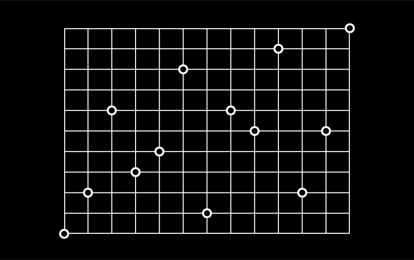
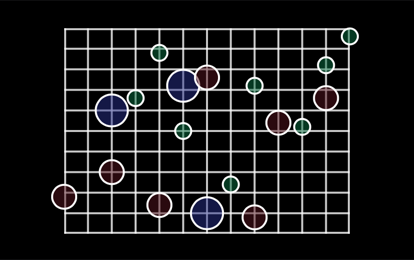
candlestick demo randomization

Changed region(s): [[0.1159, 0.0923, 0.8696, 0.9231]]

diff --git a/Sources/Graffeine-Demo/Main/Candlestick/CandlestickCell.swift b/Sources/Graffeine-Demo/Main/Candlestick/CandlestickCell.swift
@@ -5,41 +5,16 @@ class CandlestickCell: UITableViewCell, DataAppliable {
 
     typealias LayerID = CandlestickConfig.ID
 
-    struct TradingDay {
-        let open: Double
-        let close: Double
-        let peakHi: Double
-        let peakLo: Double
-    }
-
-    struct TradingDayLanes {
-        let hi: [Double]
-        let lo: [Double]
-        let peakHi: [Double]
-        let peakLo: [Double]
-        let colors: [UIColor]
-
-        static func `import`(_ input: [TradingDay]) -> TradingDayLanes {
-            return input.reduce(TradingDayLanes(hi: [], lo: [], peakHi: [], peakLo: [], colors: [])) {
-                let didCloseHi = ($1.close > $1.open)
-                let hi = (didCloseHi) ? $1.close : $1.open
-                let lo = (didCloseHi) ? $1.open : $1.close
-                let color: UIColor = (didCloseHi) ? .green : .red
-                return TradingDayLanes(hi: $0.hi + [hi],
-                                       lo: $0.lo + [lo],
-                                       peakHi: $0.peakHi + [$1.peakHi],
-                                       peakLo: $0.peakLo + [$1.peakLo],
-                                       colors: $0.colors + [color])
-            }
-        }
-    }
-    
     @IBOutlet weak var graffeineView: GraffeineView!
+
+    var selectedIndex: Int? = nil
+    var lanes: TradingDayLanes?
 
     override func awakeFromNib() {
         super.awakeFromNib()
-        graffeineView.onSelect = { _ in
-            self.dataSetIndex = (self.dataSetIndex + 1) % self.dataSets.count
+        graffeineView.onSelect = { selection in
+            self.selectedIndex = selection?.data.selectedIndex
+            self.lanes = (self.selectedIndex == nil) ? nil : self.lanes
             self.applyData(animated: true)
         }
     }
@@ -50,24 +25,9 @@ class CandlestickCell: UITableViewCell, DataAppliable {
             : nil
     }
 
-    let dataSets: [[TradingDay]] = [
-        [
-            TradingDay(open: 12.1, close: 30.8, peakHi: 35.0, peakLo: 10.1),
-            TradingDay(open: 30.8, close: 33.2, peakHi: 36.9, peakLo: 25.5),
-            TradingDay(open: 33.2, close: 31.5, peakHi: 31.6, peakLo: 31.0),
-            TradingDay(open: 31.5, close: 27.0, peakHi: 31.7, peakLo: 22.9),
-            TradingDay(open: 27.0, close: 36.4, peakHi: 40.1, peakLo: 26.5)
-        ],
-        [
-            TradingDay(open:   5.0, close:  2.0,  peakHi:  6.0, peakLo:  1.0),
-            TradingDay(open:   2.0, close:  7.0,  peakHi:  9.0, peakLo:  1.0),
-            TradingDay(open:   7.0, close:  9.0,  peakHi: 11.0, peakLo:  6.5),
-            TradingDay(open:   9.0, close:  13.0, peakHi: 14.0, peakLo:  8.5),
-            TradingDay(open:  13.0, close:  10.0, peakHi: 15.0, peakLo:  7.0)
-        ]
-    ]
-
-    var dataSetIndex: Int = 0
+    var dataSet: [TradingDay] {
+        return TradingDay.generateRandom(numberOfDays: 15, lowest:  32, highest:  64)
+    }
 
     func applyData() {
         applyData(animated: false)
@@ -75,27 +35,43 @@ class CandlestickCell: UITableViewCell, DataAppliable {
 
     func applyData(animated: Bool) {
 
-        let lanes = TradingDayLanes.import(dataSets[dataSetIndex])
+        if self.lanes == nil { self.lanes = TradingDayLanes.import(dataSet) }
+        let lanes = self.lanes!
 
         let nf = NumberFormatter()
         nf.numberStyle = .currency
 
-        let maxVal = lanes.peakHi.max()! + 4
-        let lowestVal = lanes.peakLo.min()!
-        let midVal = lowestVal + ((maxVal - lowestVal) / 2)
+        let maxVal = ceil(lanes.peakHi.max()!)
+        let lowestVal = floor(lanes.peakLo.min()!)
+        let range = maxVal - lowestVal
         let vLabels = [
-            "\(nf.string(from: NSNumber(value: maxVal * 1000))!)",
-            "\(nf.string(from: NSNumber(value: midVal * 1000))!)",
-            "\(nf.string(from: NSNumber(value: lowestVal * 1000))!)"
+            "\(nf.string(from: NSNumber(value: maxVal))!)",
+            "\(nf.string(from: NSNumber(value: lowestVal + (range * 0.9)))!)",
+            "\(nf.string(from: NSNumber(value: lowestVal + (range * 0.8)))!)",
+            "\(nf.string(from: NSNumber(value: lowestVal + (range * 0.7)))!)",
+            "\(nf.string(from: NSNumber(value: lowestVal + (range * 0.6)))!)",
+            "\(nf.string(from: NSNumber(value: lowestVal + (range * 0.5)))!)",
+            "\(nf.string(from: NSNumber(value: lowestVal + (range * 0.4)))!)",
+            "\(nf.string(from: NSNumber(value: lowestVal + (range * 0.3)))!)",
+            "\(nf.string(from: NSNumber(value: lowestVal + (range * 0.2)))!)",
+            "\(nf.string(from: NSNumber(value: lowestVal + (range * 0.1)))!)",
+            "\(nf.string(from: NSNumber(value: lowestVal))!)"
         ]
 
         let candleData = GraffeineData(valueMax: maxVal - lowestVal,
                                        valuesHi: lanes.hi.map { $0 - lowestVal },
-                                       valuesLo: lanes.lo.map { $0 - lowestVal })
+                                       valuesLo: lanes.lo.map { $0 - lowestVal },
+                                       labels: vLabels,
+                                       selectedIndex: selectedIndex)
 
         let wickData = GraffeineData(valueMax: maxVal - lowestVal,
                                      valuesHi: lanes.peakHi.map { $0 - lowestVal },
                                      valuesLo: lanes.peakLo.map { $0 - lowestVal })
+
+        (graffeineView.layer(id: LayerID.wick) as? GraffeineBarLayer)?
+            .unitSubdivision = (wickData.values.count > 20)
+                ? GraffeineLayer.UnitSubdivision(index:  6, width: .percentage(0.08))
+                : GraffeineLayer.UnitSubdivision(index: 10, width: .percentage(0.05))
 
         graffeineView.layer(id: LayerID.wick)?
             .setData( wickData, animator: barAnimator(animated) )
@@ -105,7 +81,6 @@ class CandlestickCell: UITableViewCell, DataAppliable {
         graffeineView.layer(id: LayerID.candle)?
             .setData( candleData, animator: barAnimator(animated) )
 
-        graffeineView.layer(id: LayerID.leftGutter)?
-            .data = GraffeineData(labels: vLabels)
+        graffeineView.layer(id: LayerID.leftGutter)?.data = candleData
     }
 }

diff --git a/Sources/Graffeine-Demo/Main/Scatterplot/ScatterplotConfig.swift b/Sources/Graffeine-Demo/Main/Scatterplot/ScatterplotConfig.swift
@@ -5,7 +5,7 @@ class ScatterplotConfig: GraffeineViewConfig {
 
     enum ID: Hashable {
         case topGutter, rightGutter, bottomGutter, leftGutter
-        case hGrid, vGrid, vectorPlots, imagePlots
+        case hGrid, vGrid, vectorPlots1, vectorPlots2, vectorPlots3
     }
 
     required init(_ graffeineView: GraffeineView) {
@@ -26,26 +26,51 @@ class ScatterplotConfig: GraffeineViewConfig {
             GraffeineGridLineLayer(id: ID.hGrid)
                 .apply ({
                     $0.flipXY = true
-                    $0.unitLine.colors = [.white]
-                    $0.unitLine.thickness = 1.0
+                    $0.unitLine.colors = [UIColor(white: 0.98, alpha: 0.8)]
+                    $0.unitLine.thickness = 2.0
                 }),
 
             GraffeineGridLineLayer(id: ID.vGrid)
                 .apply ({
                     $0.unitLine.colors = [.white]
-                    $0.unitLine.thickness = 1.0
+                    $0.unitLine.colors = [UIColor(white: 0.98, alpha: 0.8)]
+                    $0.unitLine.thickness = 2.0
                 }),
 
-            GraffeinePlotLayer(id: ID.vectorPlots)
+            GraffeinePlotLayer(id: ID.vectorPlots1)
                 .apply ({
-                    $0.diameter = .explicit(8.0)
-                    $0.unitFill.colors = [.black]
+                    $0.diameter = .explicit(32.0)
+                    $0.unitFill.colors = [UIColor.init(red: 0.16, green: 0.19, blue: 0.55, alpha: 0.5)]
                     $0.unitLine.colors = [.white]
                     $0.unitLine.thickness = 2.0
                     $0.unitMargin = unitMargin
 
                     $0.selection.isEnabled = true
-                    $0.selection.radial.diameter = .explicit(16.0)
+                    $0.selection.radial.diameter = .explicit(48.0)
+                }),
+
+            GraffeinePlotLayer(id: ID.vectorPlots2)
+                .apply ({
+                    $0.diameter = .explicit(24.0)
+                    $0.unitFill.colors = [UIColor.init(red: 0.33, green: 0.08, blue: 0.12, alpha: 0.5)]
+                    $0.unitLine.colors = [.white]
+                    $0.unitLine.thickness = 2.0
+                    $0.unitMargin = unitMargin
+
+                    $0.selection.isEnabled = true
+                    $0.selection.radial.diameter = .explicit(32.0)
+                }),
+
+            GraffeinePlotLayer(id: ID.vectorPlots3)
+                .apply ({
+                    $0.diameter = .explicit(16.0)
+                    $0.unitFill.colors = [UIColor.init(red: 0.04, green: 0.44, blue: 0.26, alpha: 0.5)]
+                    $0.unitLine.colors = [.white]
+                    $0.unitLine.thickness = 2.0
+                    $0.unitMargin = unitMargin
+
+                    $0.selection.isEnabled = true
+                    $0.selection.radial.diameter = .explicit(24.0)
                 })
         ]
     }

diff --git a/Sources/Graffeine-Demo/Main/Scatterplot/ScatterplotCell.swift b/Sources/Graffeine-Demo/Main/Scatterplot/ScatterplotCell.swift
@@ -7,12 +7,25 @@ class ScatterplotCell: UITableViewCell, DataAppliable {
     
     @IBOutlet weak var graffeineView: GraffeineView!
 
-    var selectedIndex: Int? = nil
+    var selectedIndex1: Int? = nil
+    var selectedIndex2: Int? = nil
+    var selectedIndex3: Int? = nil
 
     override func awakeFromNib() {
         super.awakeFromNib()
         graffeineView.onSelect = { selection in
-            self.selectedIndex = selection?.data.selectedIndex
+            if let layerId = selection?.layer.id as? LayerID,
+                layerId == LayerID.vectorPlots1 {
+                self.selectedIndex1 = selection?.data.selectedIndex
+            }
+            if let layerId = selection?.layer.id as? LayerID,
+                layerId == LayerID.vectorPlots2 {
+                self.selectedIndex2 = selection?.data.selectedIndex
+            }
+            if let layerId = selection?.layer.id as? LayerID,
+                layerId == LayerID.vectorPlots3 {
+                self.selectedIndex3 = selection?.data.selectedIndex
+            }
             self.applyData(animated: true)
         }
     }
@@ -22,10 +35,12 @@ class ScatterplotCell: UITableViewCell, DataAppliable {
     }
 
     func applyData(animated: Bool) {
-        let values: [Double?] = [0, 10, 30, 15, 20, 40, 5, 30, 25, 45, 10, 25, 50]
+        let values1: [Double?] = [nil, nil,  30, nil, nil,  36,   5, nil, nil, nil, nil, nil, nil]
+        let values2: [Double?] = [  9, nil,  15, nil,   7, nil,  38, nil,   4,  27, nil,  33, nil]
+        let values3: [Double?] = [nil, nil, nil,  33,  44,  25, nil,  12,  36, nil,  26,  41,  48]
 
         graffeineView.layer(id: LayerID.hGrid)?.apply {
-            let max = values.count - 1
+            let max = values1.count - 1
             let marks = Array(0...max).map { Double($0) }
             $0.data = GraffeineData(valueMax: Double(max), values: marks)
         }
@@ -35,8 +50,16 @@ class ScatterplotCell: UITableViewCell, DataAppliable {
             $0.data = GraffeineData(valueMax: 50, values: marks)
         }
 
-        graffeineView.layer(id: LayerID.vectorPlots)?.apply {
-            $0.data = GraffeineData(valueMax: 50, values: values, selectedIndex: selectedIndex)
+        graffeineView.layer(id: LayerID.vectorPlots1)?.apply {
+            $0.data = GraffeineData(valueMax: 50, values: values1, selectedIndex: selectedIndex1)
+        }
+
+        graffeineView.layer(id: LayerID.vectorPlots2)?.apply {
+            $0.data = GraffeineData(valueMax: 50, values: values2, selectedIndex: selectedIndex2)
+        }
+
+        graffeineView.layer(id: LayerID.vectorPlots3)?.apply {
+            $0.data = GraffeineData(valueMax: 50, values: values3, selectedIndex: selectedIndex3)
         }
     }
 }

diff --git a/Sources/Graffeine-Demo/Main/Candlestick/CandlestickCell+TradingDay.swift b/Sources/Graffeine-Demo/Main/Candlestick/CandlestickCell+TradingDay.swift
@@ -1,0 +1,55 @@
+import UIKit
+import Graffeine
+
+extension CandlestickCell {
+
+    struct TradingDay {
+        let open: Double
+        let close: Double
+        let peakHi: Double
+        let peakLo: Double
+
+        static func generateRandom(numberOfDays: Int, lowest: Double, highest: Double) -> [TradingDay] {
+            return Array(0..<numberOfDays).reduce([], { result, _ in
+                let yesterdayClose = result.last?.close ?? rnd(min: lowest, max: highest)
+                let todayOpen = yesterdayClose
+                let todayClose = rnd(min: lowest, max: highest)
+                let hi = max(todayOpen, todayClose)
+                let lo = min(todayOpen, todayClose)
+                let range = hi - lo
+                let peakHi = rnd(min: hi, max: min(hi + (range * 0.30), highest))
+                let peakLo = rnd(min: max(lo - (range * 0.30), lowest), max: lo)
+                return result + [TradingDay(open: todayOpen,
+                                            close: todayClose,
+                                            peakHi: peakHi,
+                                            peakLo: peakLo)]
+            })
+        }
+
+        private static func rnd(min: Double, max: Double) -> Double {
+            return ceil(Double.random(in: min...max) * 100) / 100
+        }
+    }
+
+    struct TradingDayLanes {
+        let hi: [Double]
+        let lo: [Double]
+        let peakHi: [Double]
+        let peakLo: [Double]
+        let colors: [UIColor]
+
+        static func `import`(_ input: [TradingDay]) -> TradingDayLanes {
+            return input.reduce(TradingDayLanes(hi: [], lo: [], peakHi: [], peakLo: [], colors: [])) {
+                let didCloseHi = ($1.close > $1.open)
+                let hi = (didCloseHi) ? $1.close : $1.open
+                let lo = (didCloseHi) ? $1.open : $1.close
+                let color: UIColor = (didCloseHi) ? .green : .red
+                return TradingDayLanes(hi: $0.hi + [hi],
+                                       lo: $0.lo + [lo],
+                                       peakHi: $0.peakHi + [$1.peakHi],
+                                       peakLo: $0.peakLo + [$1.peakLo],
+                                       colors: $0.colors + [color])
+            }
+        }
+    }
+}

diff --git a/Sources/Graffeine-Demo/Main/Candlestick/CandlestickConfig.swift b/Sources/Graffeine-Demo/Main/Candlestick/CandlestickConfig.swift
@@ -12,7 +12,7 @@ class CandlestickConfig: GraffeineViewConfig {
         super.init(graffeineView)
 
         let unitMargin: CGFloat = 6.0
-        let vLabelInsets = UIEdgeInsets.init(top: -6, left:  0, bottom: -6, right:  0)
+        let vLabelInsets = UIEdgeInsets.init(top: -12, left:  0, bottom: -10, right:  0)
         let candleInsets = UIEdgeInsets.init(top:  0, left: 24, bottom:  0, right: 24)
 
         graffeineView.layers = [
@@ -23,10 +23,10 @@ class CandlestickConfig: GraffeineViewConfig {
 
             GraffeineHorizontalLabelLayer(id: ID.bottomGutter, height: 24, region: .bottomGutter),
 
-            GraffeineVerticalLabelLayer(id: ID.leftGutter, width: 96, region: .leftGutter)
+            GraffeineVerticalLabelLayer(id: ID.leftGutter, width: 64, region: .leftGutter)
                 .apply ({
                     $0.insets = vLabelInsets
-                    $0.labelVerticalAlignmentMode = .centerTopBottom
+                    $0.labelVerticalAlignmentMode = .center
                     $0.unitText.colors = [.systemTeal]
                     $0.unitText.fontSize = 12
                     $0.labelHPadding = 8
@@ -45,7 +45,7 @@ class CandlestickConfig: GraffeineViewConfig {
                     $0.unitMargin = unitMargin
                     $0.insets = candleInsets
                     $0.unitFill.colors = [.white]
-                    $0.unitSubdivision = GraffeineLayer.UnitSubdivision(index: 24, width: .percentage(0.02))
+                    $0.unitSubdivision = GraffeineLayer.UnitSubdivision(index: 12, width: .percentage(0.04))
                 }),
 
             GraffeineBarLayer(id: ID.candle)
@@ -53,6 +53,14 @@ class CandlestickConfig: GraffeineViewConfig {
                     $0.unitMargin = unitMargin
                     $0.insets = candleInsets
                     $0.unitFill.colors = [.red]
+                    $0.roundedEnds = .both(2)
+
+                    $0.selection.isEnabled = true
+                    $0.selection.line.color = UIColor(white: 0.9, alpha: 0.5)
+                    $0.selection.line.thickness = 3
+                    $0.selection.shadow.color = .white
+                    $0.selection.shadow.radius = 4
+                    $0.selection.shadow.opacity = 0.7
                 })
         ]
     }
